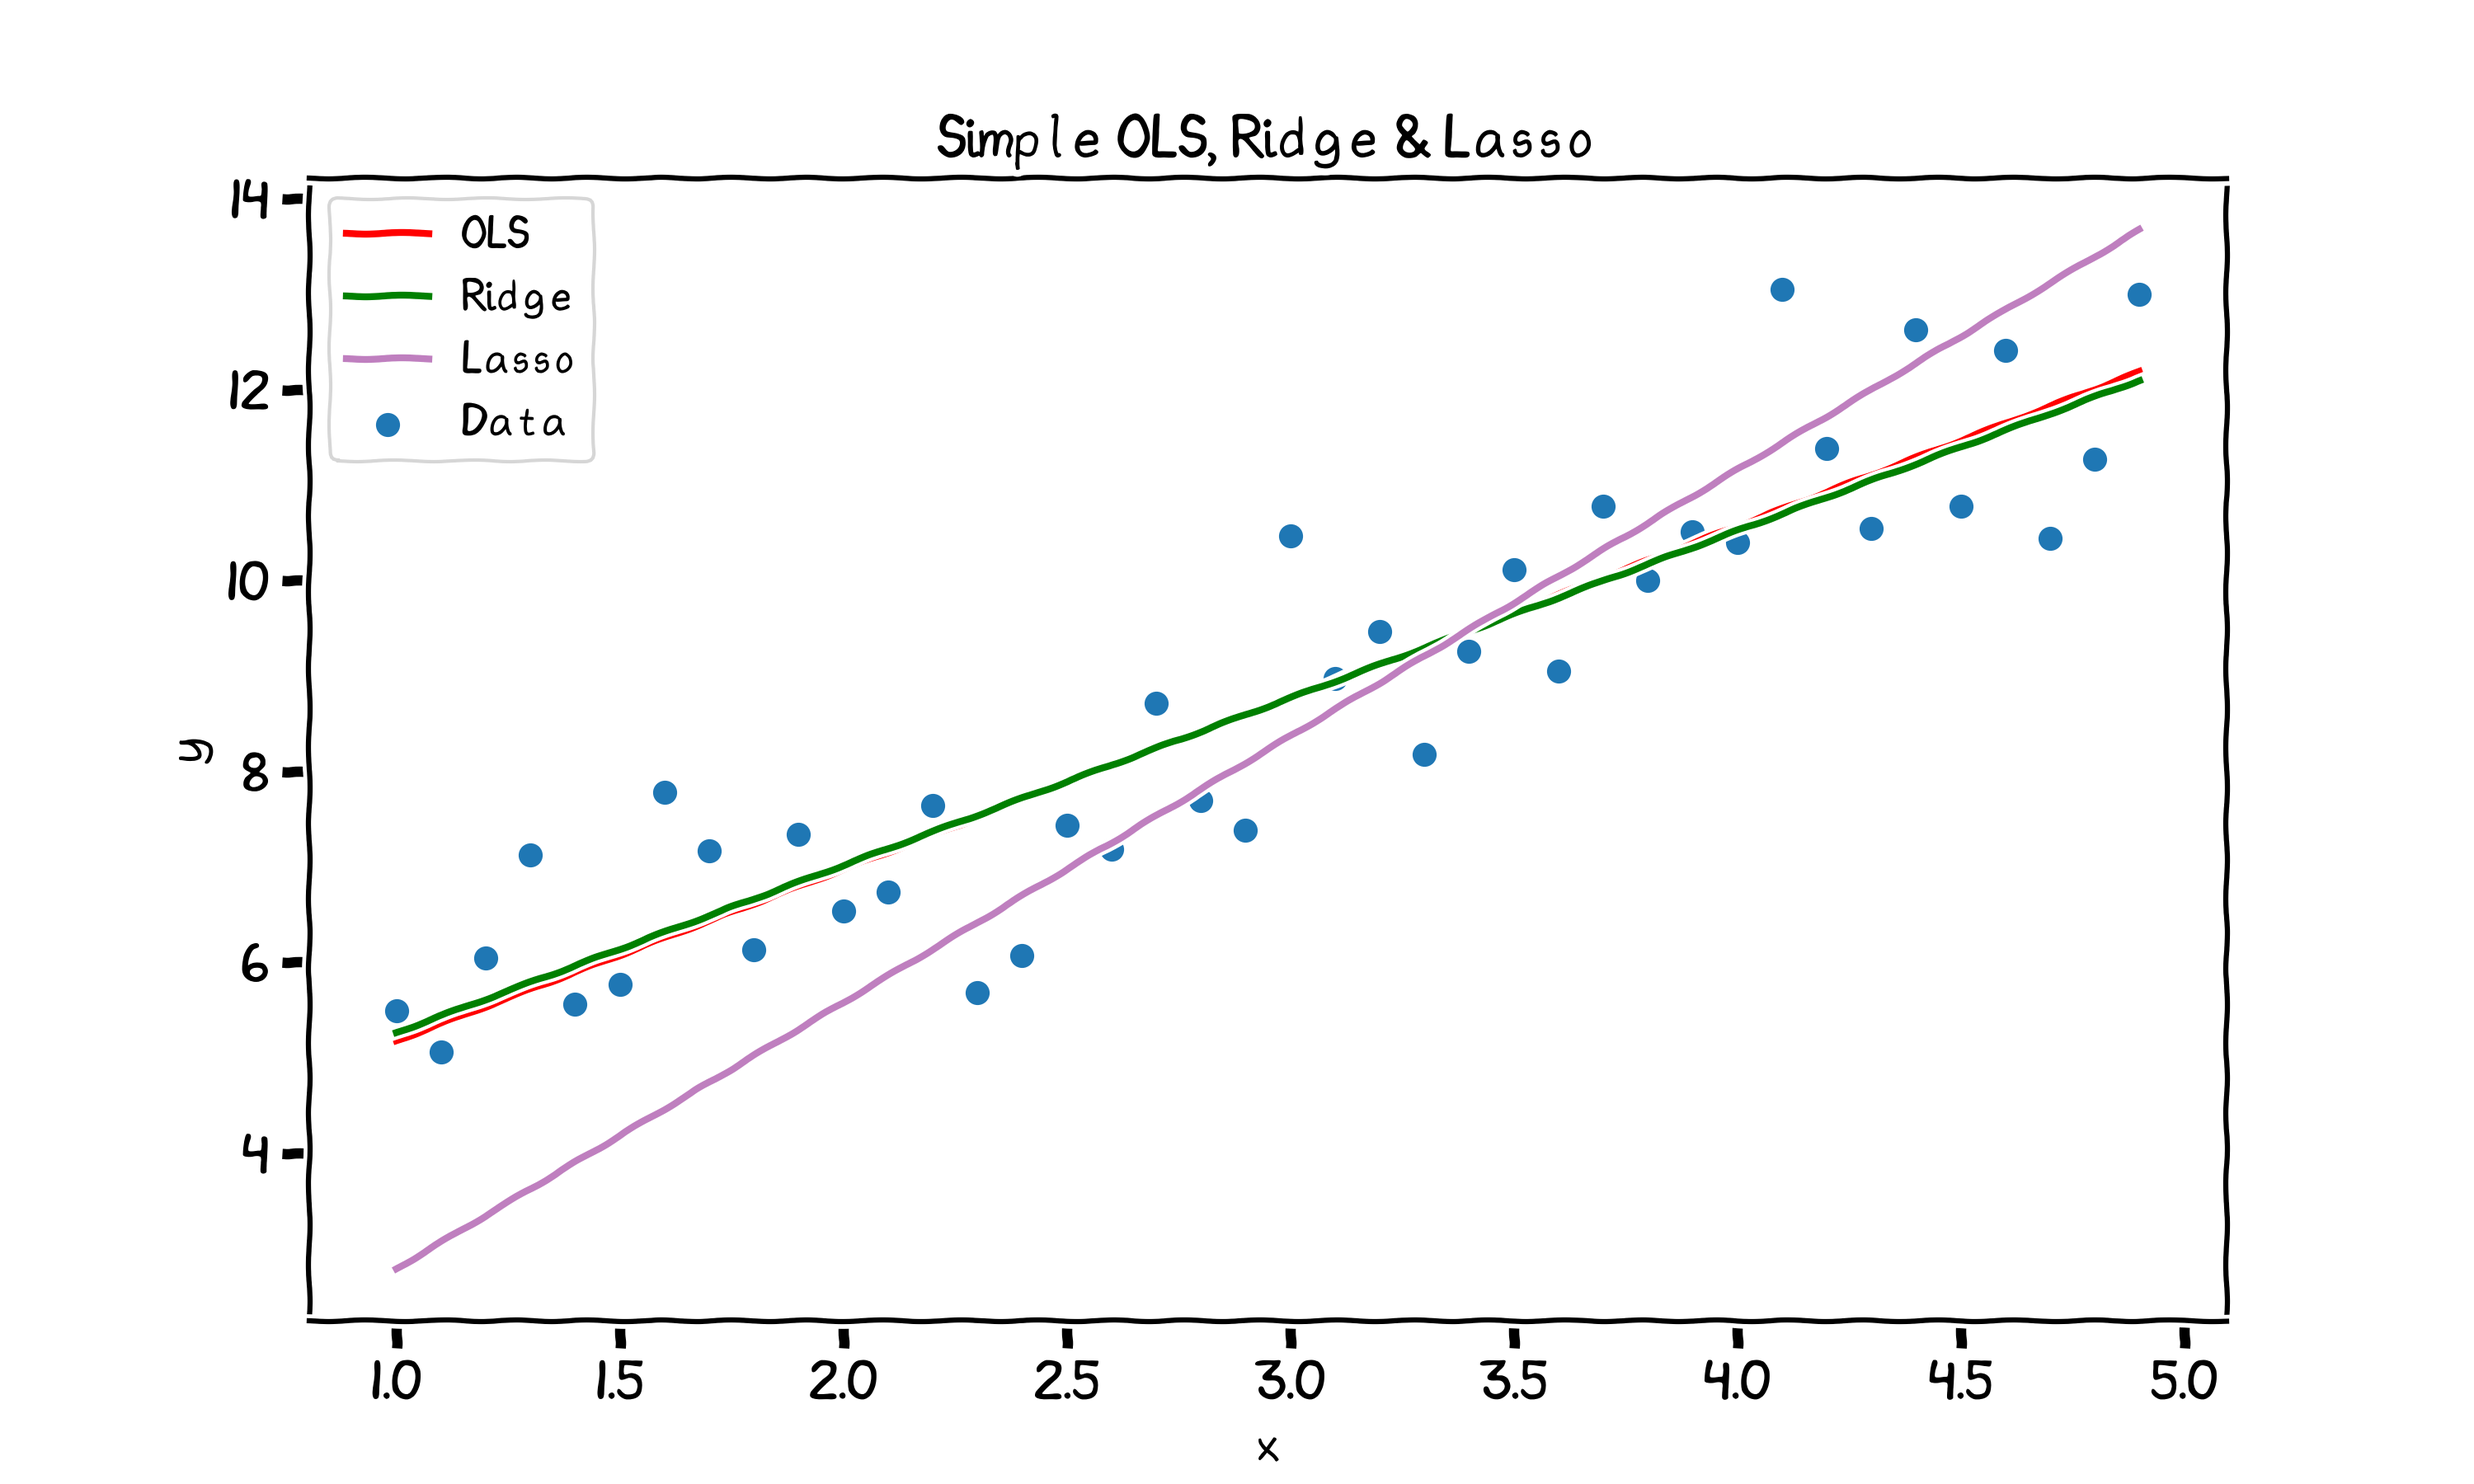
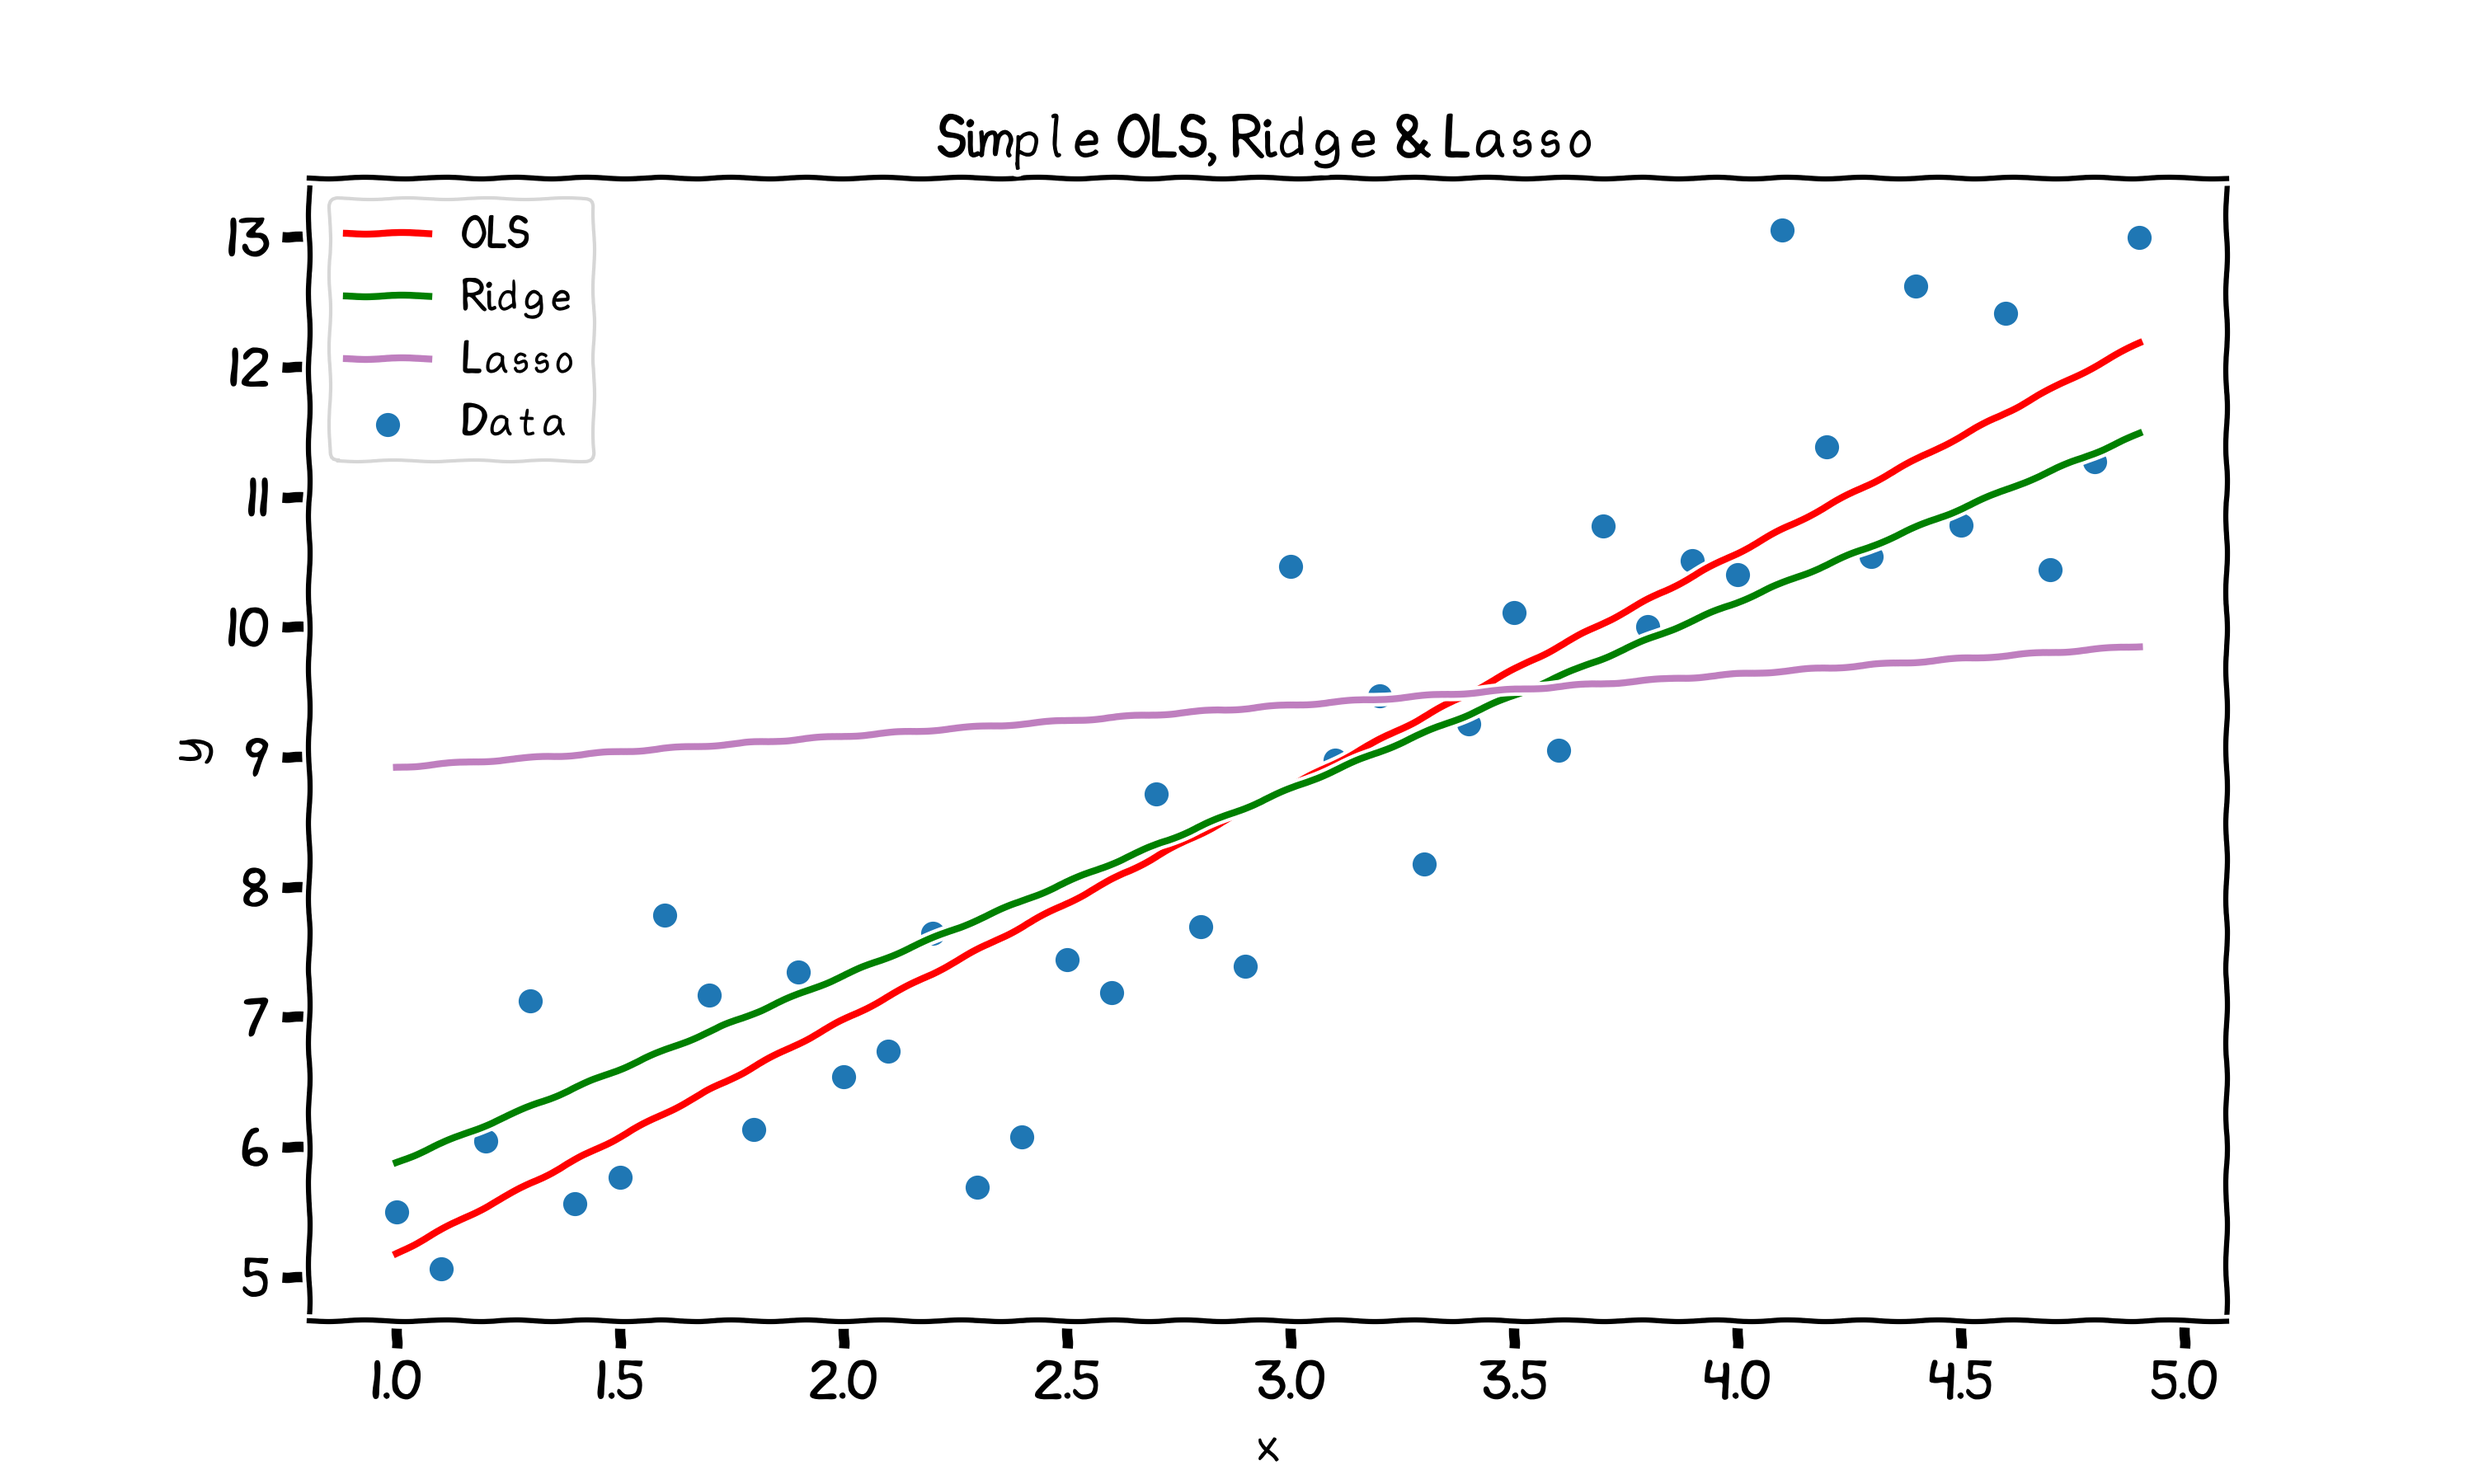
Lasso more constraint

diff --git a/chap3/python/06_lasso.py b/chap3/python/06_lasso.py
@@ -22,11 +22,11 @@ def main():
     ols.estimate()
     ols.test()
 
-    ridge = RidgeReg(X, Y, 1)
+    ridge = RidgeReg(X, Y, 10)
     ridge.estimate()
     ridge.test()
 
-    lasso = LassoReg(X, Y, 0.01)
+    lasso = LassoReg(X, center(Y), 1e-15)
     lasso.estimate()
 
     print("OLS: ")
@@ -49,7 +49,7 @@ def main():
         plt.scatter(x, y, label='Data')
         plt.plot(x, np.asarray(ols.y_hat).ravel(), 'r', label='OLS')
         plt.plot(x, np.asarray(ridge.true_y_hat).ravel(), 'g', label='Ridge')
-        plt.plot(x, np.asarray(lasso.y_hat).ravel(), color='purple', alpha=0.5, label='Lasso')
+        plt.plot(x, np.asarray(lasso.y_hat + Y.mean(axis=0)).ravel(), color='purple', alpha=0.5, label='Lasso')
 
         # Other options
         plt.legend(fontsize=12)
